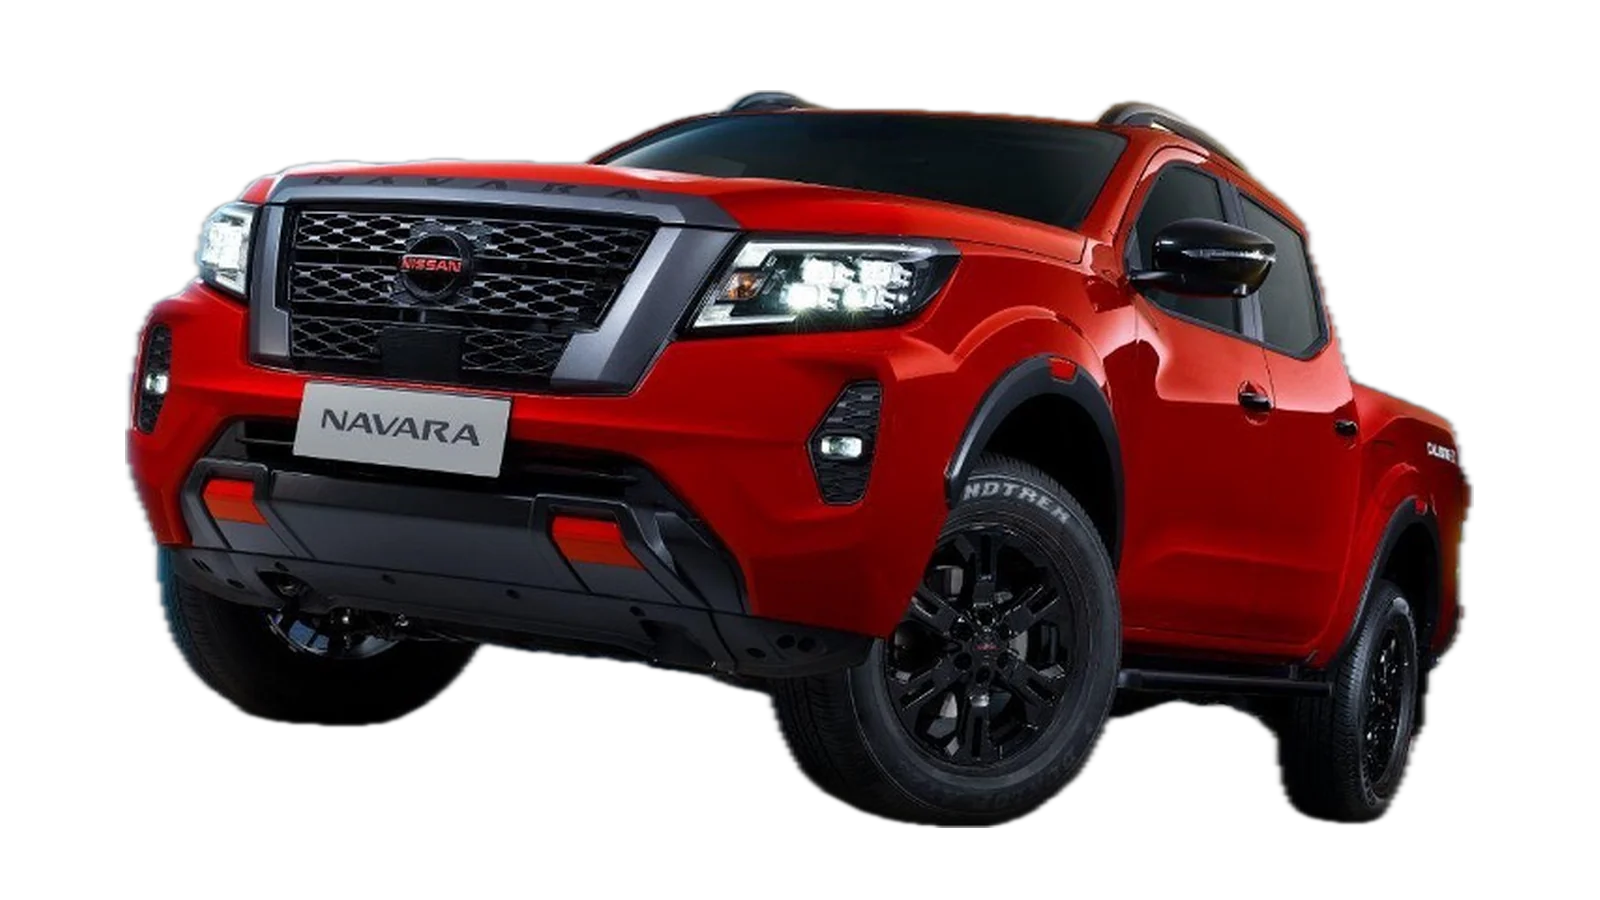
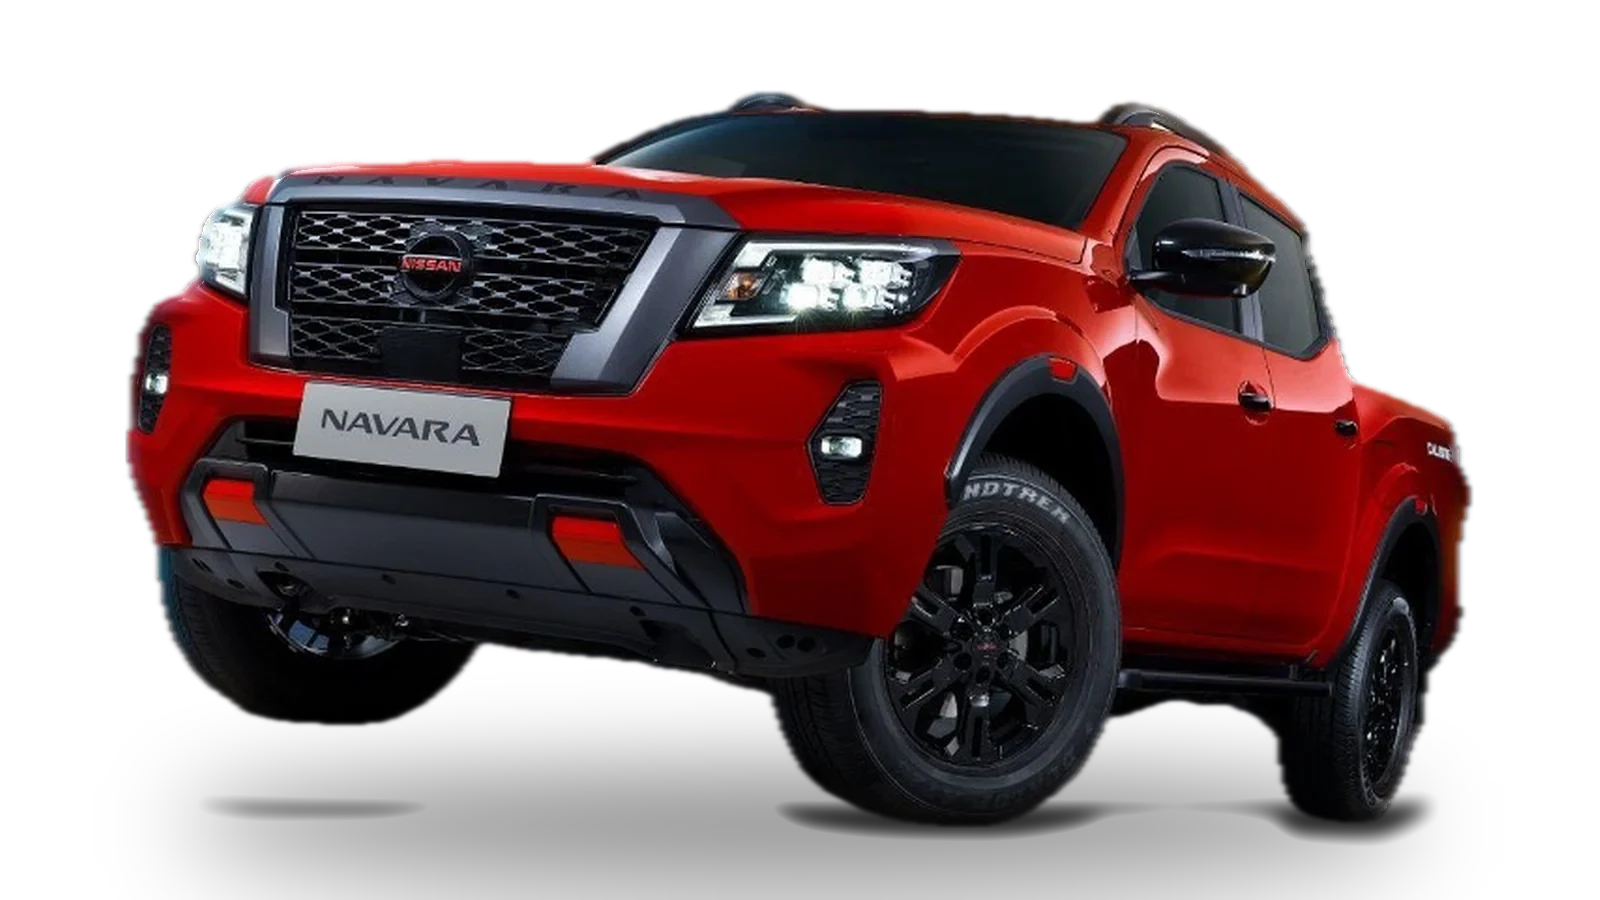
cars

diff --git a/index.html b/index.html
@@ -197,6 +197,8 @@
 }
 </script>
 <link rel="icon" href="favicon.ico" sizes="any">
+<link rel="icon" type="image/png" sizes="48x48" href="favicon-48x48.png">
+<link rel="icon" type="image/png" sizes="96x96" href="favicon-96x96.png">
 <link rel="icon" type="image/png" sizes="32x32" href="favicon-32x32.png">
 <link rel="icon" type="image/png" sizes="192x192" href="icon-192.png">
 <link rel="apple-touch-icon" href="apple-touch-icon.png">
@@ -444,7 +446,7 @@
   .sv-image.active { opacity: 1; }
   .sv-photo { padding: 0; }
   .sv-photo img { width: 100%; height: 100%; object-fit: cover; }
-  .sv-cutout { width: 100%; aspect-ratio: 16 / 9; object-fit: contain; filter: drop-shadow(0 20px 60px rgba(200,16,46,0.3)); }
+  .sv-cutout { width: 100%; aspect-ratio: 16 / 9; object-fit: contain; }   /* ground shadow is baked into the photo */
   .car-placeholder { width: 100%; max-width: 560px; display: flex; flex-direction: column; align-items: center; position: relative; }
   .car-svg { width: 100%; filter: drop-shadow(0 20px 60px rgba(200,16,46,0.25)); transition: filter 0.4s; }
   .car-svg:hover { filter: drop-shadow(0 24px 80px rgba(200,16,46,0.4)); }

diff --git a/privacy.html b/privacy.html
@@ -14,6 +14,8 @@
 <meta property="og:url" content="https://nissansvc.com/privacy.html">
 <meta property="og:image" content="https://nissansvc.com/og-image.jpg">
 <link rel="icon" href="favicon.ico" sizes="any">
+<link rel="icon" type="image/png" sizes="48x48" href="favicon-48x48.png">
+<link rel="icon" type="image/png" sizes="96x96" href="favicon-96x96.png">
 <link rel="icon" type="image/png" sizes="32x32" href="favicon-32x32.png">
 <link rel="apple-touch-icon" href="apple-touch-icon.png">
 <style>
